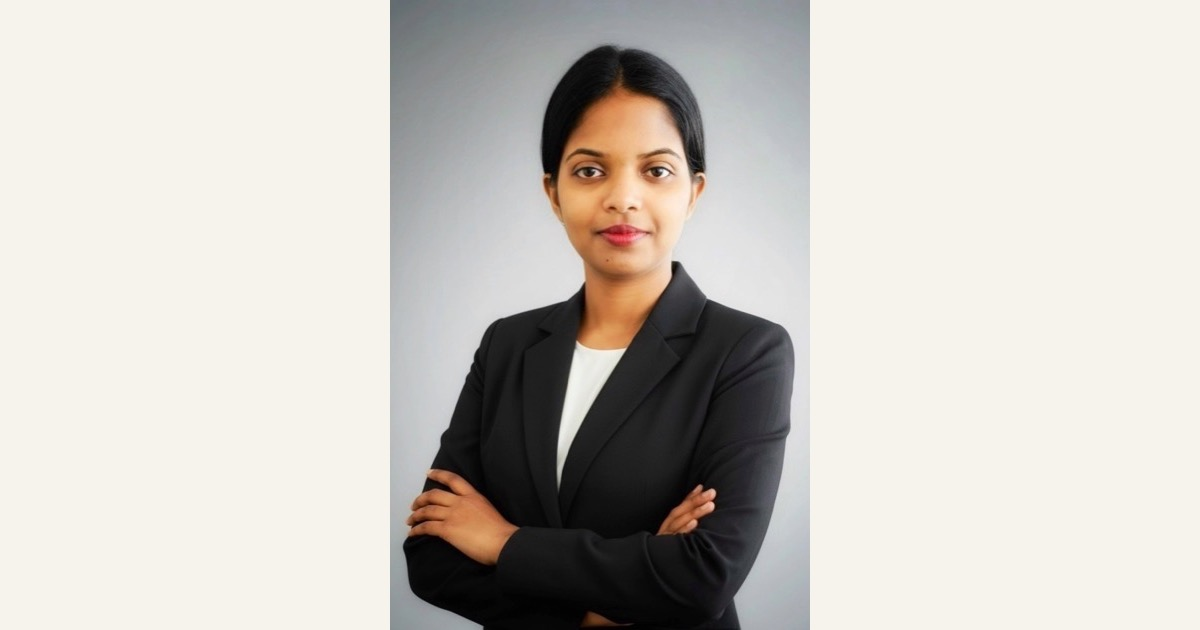
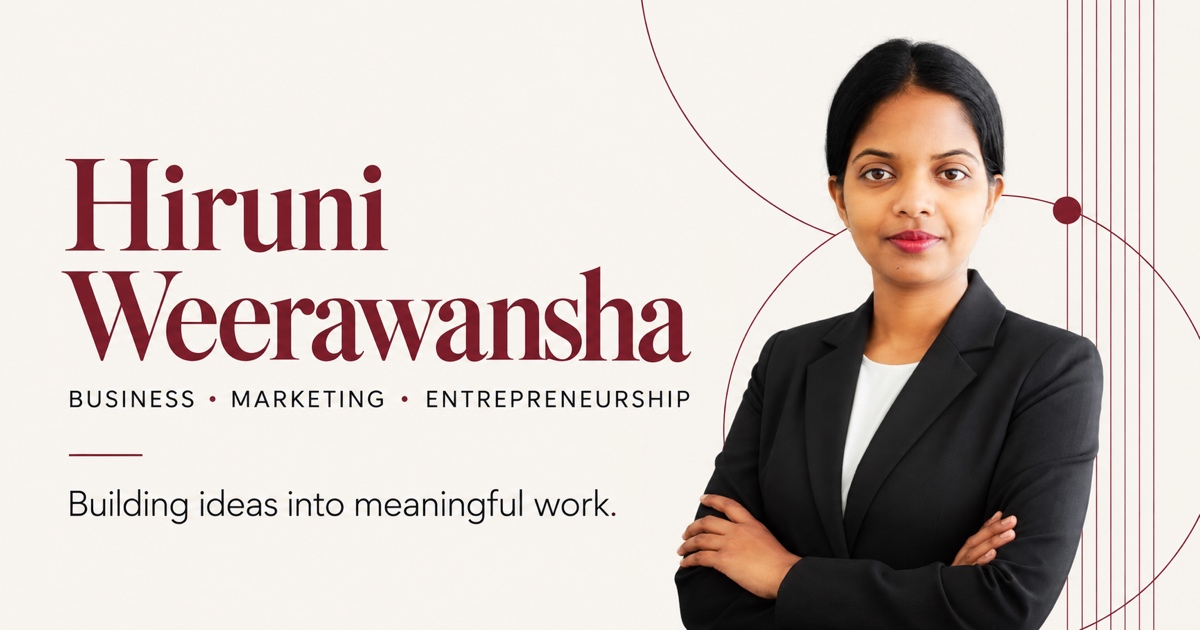
Update Open Graph and Twitter meta tags with new image and alt text for enhanced social sharing

diff --git a/index.html b/index.html
@@ -12,21 +12,21 @@
   <meta property="og:title" content="Hiruni Weerawansha | Business, Marketing & Entrepreneurship">
   <meta property="og:description"
     content="Building ideas into meaningful work through business, creativity, and innovation. Explore my experience, ventures, and community initiatives.">
-  <meta property="og:url" content="https://imhiru.netlify.app/">
+  <meta property="og:url" content="https://imhiru.docxdeveloper.com/">
   <meta property="og:site_name" content="Hiruni Weerawansha">
   <meta property="og:locale" content="en_US">
-  <meta property="og:image" content="https://imhiru.netlify.app/img/hiruni-social.jpg">
-  <meta property="og:image:secure_url" content="https://imhiru.netlify.app/img/hiruni-social.jpg">
+  <meta property="og:image" content="https://imhiru.docxdeveloper.com/img/hiruni-social.jpg">
+  <meta property="og:image:secure_url" content="https://imhiru.docxdeveloper.com/img/hiruni-social.jpg">
   <meta property="og:image:type" content="image/jpeg">
   <meta property="og:image:width" content="1200">
   <meta property="og:image:height" content="630">
-  <meta property="og:image:alt" content="Portrait of Hiruni Weerawansha in a black blazer against an ivory background">
+  <meta property="og:image:alt" content="Hiruni Weerawansha — Business, Marketing and Entrepreneurship. Portrait with burgundy typography and geometric lines on ivory.">
   <meta name="twitter:card" content="summary_large_image">
   <meta name="twitter:title" content="Hiruni Weerawansha | Business, Marketing &amp; Entrepreneurship">
   <meta name="twitter:description" content="Building ideas into meaningful work through business, creativity, and innovation. Explore my experience, ventures, and community initiatives.">
-  <meta name="twitter:image" content="https://imhiru.netlify.app/img/hiruni-social.jpg">
-  <meta name="twitter:image:alt" content="Portrait of Hiruni Weerawansha in a black blazer against an ivory background">
-  <link rel="canonical" href="https://imhiru.netlify.app/">
+  <meta name="twitter:image" content="https://imhiru.docxdeveloper.com/img/hiruni-social.jpg">
+  <meta name="twitter:image:alt" content="Hiruni Weerawansha — Business, Marketing and Entrepreneurship. Portrait with burgundy typography and geometric lines on ivory.">
+  <link rel="canonical" href="https://imhiru.docxdeveloper.com/">
   <link rel="icon" href="favicon.ico">
   <link rel="apple-touch-icon" href="icons/icon-128x128.png">
   <link rel="preconnect" href="https://fonts.googleapis.com">
